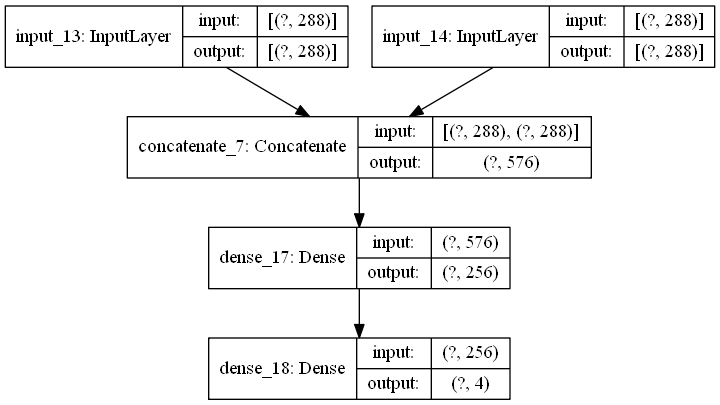
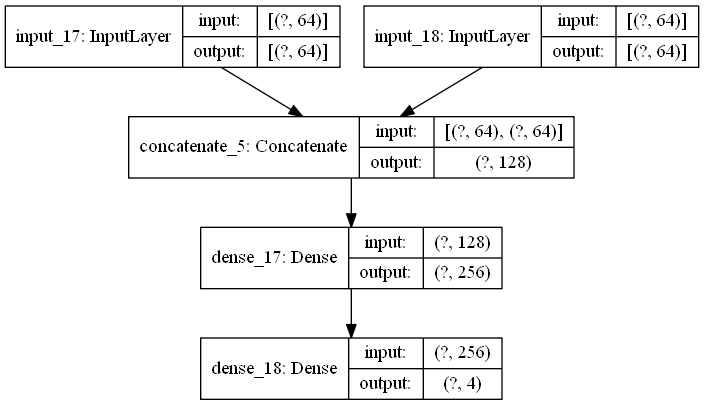
Hotfix for MlAgentsV15

diff --git a/modules/exploration_algorithms/intrinsic_curiosity_module.py b/modules/exploration_algorithms/intrinsic_curiosity_module.py
@@ -135,11 +135,11 @@ class IntrinsicCuriosityModule(ExplorationAlgorithm):
         return False
 
     def calculate_intrinsic_reward(self, replay_buffer: ReplayBuffer):
-        if replay_buffer.new_samples < self.batch_size:
+        if replay_buffer.new_unmodified_samples < self.batch_size:
             return False
 
         new_replay_samples = list(itertools.islice(replay_buffer.buffer,
-                                                   len(replay_buffer.buffer)-replay_buffer.new_samples,
+                                                   len(replay_buffer.buffer)-replay_buffer.new_unmodified_samples,
                                                    len(replay_buffer.buffer)))
         state_batch, action_batch, \
             reward_batch, next_state_batch, \

diff --git a/modules/interfaces/mlagents_v15.py b/modules/interfaces/mlagents_v15.py
@@ -17,7 +17,7 @@ class MlAgentsV15Interface:
     def get_observation_shapes(env: UnityEnvironment):
         spec = env.behavior_specs
         behavior_spec = [v for v in spec.values()][0].observation_specs
-        observation_shape = [behavior_spec[0].shape]
+        observation_shape = [b.shape for b in behavior_spec]
         return observation_shape
 
     @staticmethod

diff --git a/modules/misc/noisy_dense.py b/modules/misc/noisy_dense.py
@@ -1,6 +1,6 @@
-from keras import backend as K
-from keras.engine.topology import Layer
-from keras import activations, initializers, regularizers, constraints
+from tensorflow.keras import backend as K
+from tensorflow.keras.layers import Layer
+from tensorflow.keras import activations, initializers, regularizers, constraints
 import numpy as np
 
 
